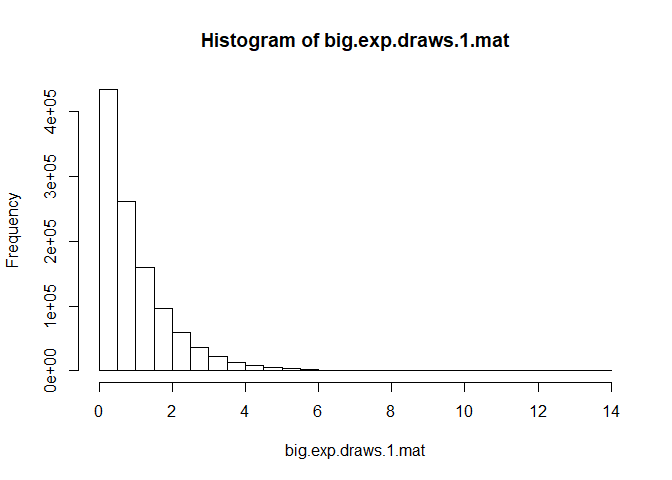
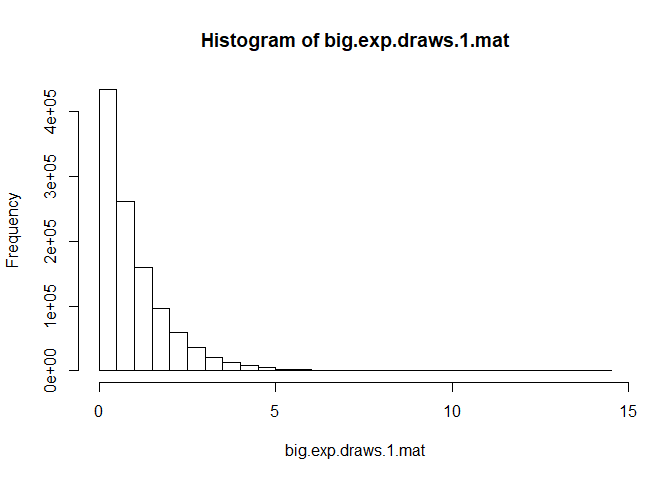
commit preclass assignment: completed 100 %

diff --git a/Week 02/pre-class02.md b/Week 02/pre-class02.md
@@ -201,16 +201,26 @@ big.exp.draws.1 <- rexp(n = 1100000)
 summstat <- c(mean(big.exp.draws.1), sd(big.exp.draws.1))
 
 #5.b
-x <- seq(from = 0, to = 15, by =1 )
+x <- seq(from = 0, to = 20, by =0.001 )
 y<- (1-exp(-x))
 
 hist(big.exp.draws.1)
-lines(x,y, col = "red")
+par(new = TRUE)
+plot(x,y, type = "lines", col = "red", axes = FALSE)
+```
+
+    ## Warning in plot.xy(xy, type, ...): plot type 'lines' will be truncated to
+    ## first character
+
+``` r
+legend("topright", legend = c("big.exp.draws.1", "1-e^(-x)"), text.col=c("black","red"), col = c("black", "red"),lty=1:2)
 ```
 
 ![](pre-class02_files/figure-gfm/unnamed-chunk-8-1.png)<!-- -->
 
 ``` r
+#The two functions don't match. While the histogram is approximating the pdf of an exponential distribution, the function is actually the cdf of the exponential distribution.
+
 #5.c
 bigger.1.mean <- 
   big.exp.draws.1 %>%
@@ -240,5 +250,6 @@ hist(mean.all)
 ![](pre-class02_files/figure-gfm/unnamed-chunk-8-3.png)<!-- -->
 
 ``` r
-#The mean histogram is different from point b because we now have, by definitions, means. We can indeed see how the distribution is centered around the "true" value of the distribution mean, i.e. 1. As sample size goes to infinity, we would have this distribution converge to the true value: this is the Law of Large Numbers.
+#The mean histogram is different from point b because we now have, by definitions, means. We can indeed see how the distribution is centered around the "true" value of the standard exponential's mean, i.e. 1. 
+#As sample size goes to infinity, we would have this distribution converge to the true value: this is the Law of Large Numbers.
 ```
